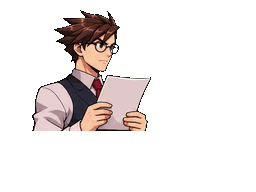
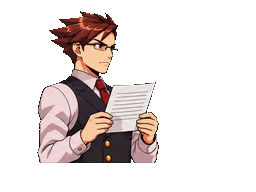
Justo: 12 caras nuevas en pares (cruzado, decidido, triste, confundido, golpe en la mesa, golpeado, aliviado, enojado) y animación nueva de lentes y papel
Claude-Session: https://claude.ai/code/session_01Xb94a44mJyTYV8GKKMfxw2

Changed region(s): [[0.125, 0.0312, 0.625, 0.875]]

diff --git a/js/assets.js b/js/assets.js
@@ -1,6 +1,6 @@
 /* Rutas de las imágenes del juego. Para cambiar un sprite, reemplaza el PNG. */
 const ART={chayo:{annoyed:"assets/personajes/chayo/annoyed.png",annoyedTalk:"assets/personajes/chayo/annoyedTalk.png",base:"assets/personajes/chayo/base.png",face:"assets/personajes/chayo/face.png",happy:"assets/personajes/chayo/happy.png",happyTalk:"assets/personajes/chayo/happyTalk.png",point:"assets/personajes/chayo/point.png",pointTalk:"assets/personajes/chayo/pointTalk.png",smug:"assets/personajes/chayo/smug.png",smugTalk:"assets/personajes/chayo/smugTalk.png",surprise:"assets/personajes/chayo/surprise.png",surpriseTalk:"assets/personajes/chayo/surpriseTalk.png",talk:"assets/personajes/chayo/talk.png",think:"assets/personajes/chayo/think.png",thinkTalk:"assets/personajes/chayo/thinkTalk.png",worried:"assets/personajes/chayo/worried.png",worriedTalk:"assets/personajes/chayo/worriedTalk.png"},
-ines:{angry:"assets/personajes/ines/angry.png",angryTalk:"assets/personajes/ines/angryTalk.png",ap1:"assets/personajes/ines/ap1.png",ap10:"assets/personajes/ines/ap10.png",ap11:"assets/personajes/ines/ap11.png",ap12:"assets/personajes/ines/ap12.png",ap13:"assets/personajes/ines/ap13.png",ap14:"assets/personajes/ines/ap14.png",ap15:"assets/personajes/ines/ap15.png",ap16:"assets/personajes/ines/ap16.png",ap2:"assets/personajes/ines/ap2.png",ap3:"assets/personajes/ines/ap3.png",ap4:"assets/personajes/ines/ap4.png",ap5:"assets/personajes/ines/ap5.png",ap6:"assets/personajes/ines/ap6.png",ap7:"assets/personajes/ines/ap7.png",ap8:"assets/personajes/ines/ap8.png",ap9:"assets/personajes/ines/ap9.png",base:"assets/personajes/ines/base.png",down:"assets/personajes/ines/down.png",downTalk:"assets/personajes/ines/downTalk.png",face:"assets/personajes/ines/face.png",le1:"assets/personajes/ines/le1.png",le10:"assets/personajes/ines/le10.png",le11:"assets/personajes/ines/le11.png",le12:"assets/personajes/ines/le12.png",le13:"assets/personajes/ines/le13.png",le14:"assets/personajes/ines/le14.png",le15:"assets/personajes/ines/le15.png",le16:"assets/personajes/ines/le16.png",le2:"assets/personajes/ines/le2.png",le3:"assets/personajes/ines/le3.png",le4:"assets/personajes/ines/le4.png",le5:"assets/personajes/ines/le5.png",le6:"assets/personajes/ines/le6.png",le7:"assets/personajes/ines/le7.png",le8:"assets/personajes/ines/le8.png",le9:"assets/personajes/ines/le9.png",papel:"assets/personajes/ines/papel.png",papelTalk:"assets/personajes/ines/papelTalk.png",point:"assets/personajes/ines/point.png",pointTalk:"assets/personajes/ines/pointTalk.png",shock:"assets/personajes/ines/shock.png",shockTalk:"assets/personajes/ines/shockTalk.png",smug:"assets/personajes/ines/smug.png",smugTalk:"assets/personajes/ines/smugTalk.png",sweat:"assets/personajes/ines/sweat.png",sweatTalk:"assets/personajes/ines/sweatTalk.png",talk:"assets/personajes/ines/talk.png",think:"assets/personajes/ines/think.png",thinkTalk:"assets/personajes/ines/thinkTalk.png"},
+ines:{angry2:"assets/personajes/ines/angry2.png",angry2Talk:"assets/personajes/ines/angry2Talk.png",ap1:"assets/personajes/ines/ap1.png",ap10:"assets/personajes/ines/ap10.png",ap11:"assets/personajes/ines/ap11.png",ap12:"assets/personajes/ines/ap12.png",ap13:"assets/personajes/ines/ap13.png",ap14:"assets/personajes/ines/ap14.png",ap15:"assets/personajes/ines/ap15.png",ap16:"assets/personajes/ines/ap16.png",ap2:"assets/personajes/ines/ap2.png",ap3:"assets/personajes/ines/ap3.png",ap4:"assets/personajes/ines/ap4.png",ap5:"assets/personajes/ines/ap5.png",ap6:"assets/personajes/ines/ap6.png",ap7:"assets/personajes/ines/ap7.png",ap8:"assets/personajes/ines/ap8.png",ap9:"assets/personajes/ines/ap9.png",base:"assets/personajes/ines/base.png",confused:"assets/personajes/ines/confused.png",confusedTalk:"assets/personajes/ines/confusedTalk.png",cruzado:"assets/personajes/ines/cruzado.png",cruzadoTalk:"assets/personajes/ines/cruzadoTalk.png",face:"assets/personajes/ines/face.png",hit:"assets/personajes/ines/hit.png",hitTalk:"assets/personajes/ines/hitTalk.png",ld1:"assets/personajes/ines/ld1.png",ld2:"assets/personajes/ines/ld2.png",ld3:"assets/personajes/ines/ld3.png",ld4:"assets/personajes/ines/ld4.png",papel:"assets/personajes/ines/papel.png",papelTalk:"assets/personajes/ines/papelTalk.png",papelThink:"assets/personajes/ines/papelThink.png",papelThinkTalk:"assets/personajes/ines/papelThinkTalk.png",point:"assets/personajes/ines/point.png",pointTalk:"assets/personajes/ines/pointTalk.png",relieved:"assets/personajes/ines/relieved.png",relievedTalk:"assets/personajes/ines/relievedTalk.png",sad:"assets/personajes/ines/sad.png",sadTalk:"assets/personajes/ines/sadTalk.png",serious:"assets/personajes/ines/serious.png",seriousTalk:"assets/personajes/ines/seriousTalk.png",shock:"assets/personajes/ines/shock.png",shockTalk:"assets/personajes/ines/shockTalk.png",slam:"assets/personajes/ines/slam.png",slamTalk:"assets/personajes/ines/slamTalk.png",smug:"assets/personajes/ines/smug.png",smugTalk:"assets/personajes/ines/smugTalk.png",sweat:"assets/personajes/ines/sweat.png",sweatTalk:"assets/personajes/ines/sweatTalk.png",talk:"assets/personajes/ines/talk.png",think:"assets/personajes/ines/think.png",thinkTalk:"assets/personajes/ines/thinkTalk.png"},
 
 fiscal:{angry:"assets/personajes/fiscal/angry.png",angryTalk:"assets/personajes/fiscal/angryTalk.png",base:"assets/personajes/fiscal/base.png",cafe:"assets/personajes/fiscal/cafe.png",cafeTalk:"assets/personajes/fiscal/cafeTalk.png",cross:"assets/personajes/fiscal/cross.png",crossTalk:"assets/personajes/fiscal/crossTalk.png",cuff:"assets/personajes/fiscal/cuff.png",cuffTalk:"assets/personajes/fiscal/cuffTalk.png",down:"assets/personajes/fiscal/down.png",downTalk:"assets/personajes/fiscal/downTalk.png",face:"assets/personajes/fiscal/face.png",facepalm:"assets/personajes/fiscal/facepalm.png",facepalmTalk:"assets/personajes/fiscal/facepalmTalk.png",fist:"assets/personajes/fiscal/fist.png",fistTalk:"assets/personajes/fiscal/fistTalk.png",frente_angry:"assets/personajes/fiscal/frente_angry.png",frente_angryTalk:"assets/personajes/fiscal/frente_angryTalk.png",frente_base:"assets/personajes/fiscal/frente_base.png",frente_cross:"assets/personajes/fiscal/frente_cross.png",frente_crossTalk:"assets/personajes/fiscal/frente_crossTalk.png",frente_down:"assets/personajes/fiscal/frente_down.png",frente_downTalk:"assets/personajes/fiscal/frente_downTalk.png",frente_gesture:"assets/personajes/fiscal/frente_gesture.png",frente_gestureTalk:"assets/personajes/fiscal/frente_gestureTalk.png",frente_proud:"assets/personajes/fiscal/frente_proud.png",frente_proudTalk:"assets/personajes/fiscal/frente_proudTalk.png",frente_serious:"assets/personajes/fiscal/frente_serious.png",frente_seriousTalk:"assets/personajes/fiscal/frente_seriousTalk.png",frente_shock:"assets/personajes/fiscal/frente_shock.png",frente_shockTalk:"assets/personajes/fiscal/frente_shockTalk.png",frente_smile:"assets/personajes/fiscal/frente_smile.png",frente_smileTalk:"assets/personajes/fiscal/frente_smileTalk.png",frente_smug:"assets/personajes/fiscal/frente_smug.png",frente_smugTalk:"assets/personajes/fiscal/frente_smugTalk.png",frente_talk:"assets/personajes/fiscal/frente_talk.png",frente_think:"assets/personajes/fiscal/frente_think.png",frente_think2:"assets/personajes/fiscal/frente_think2.png",frente_think2Talk:"assets/personajes/fiscal/frente_think2Talk.png",frente_thinkTalk:"assets/personajes/fiscal/frente_thinkTalk.png",gesture:"assets/personajes/fiscal/gesture.png",gestureTalk:"assets/personajes/fiscal/gestureTalk.png",point:"assets/personajes/fiscal/point.png",pointTalk:"assets/personajes/fiscal/pointTalk.png",proud:"assets/personajes/fiscal/proud.png",proud2:"assets/personajes/fiscal/proud2.png",proud2Talk:"assets/personajes/fiscal/proud2Talk.png",proudTalk:"assets/personajes/fiscal/proudTalk.png",serious:"assets/personajes/fiscal/serious.png",seriousTalk:"assets/personajes/fiscal/seriousTalk.png",shock:"assets/personajes/fiscal/shock.png",shockTalk:"assets/personajes/fiscal/shockTalk.png",smile:"assets/personajes/fiscal/smile.png",smileTalk:"assets/personajes/fiscal/smileTalk.png",smug:"assets/personajes/fiscal/smug.png",smug2:"assets/personajes/fiscal/smug2.png",smug2Talk:"assets/personajes/fiscal/smug2Talk.png",smugTalk:"assets/personajes/fiscal/smugTalk.png",stop:"assets/personajes/fiscal/stop.png",stopTalk:"assets/personajes/fiscal/stopTalk.png",sweat:"assets/personajes/fiscal/sweat.png",sweatTalk:"assets/personajes/fiscal/sweatTalk.png",talk:"assets/personajes/fiscal/talk.png",think:"assets/personajes/fiscal/think.png",think2:"assets/personajes/fiscal/think2.png",think2Talk:"assets/personajes/fiscal/think2Talk.png",thinkTalk:"assets/personajes/fiscal/thinkTalk.png"},
 

diff --git a/js/engine.js b/js/engine.js
@@ -416,7 +416,7 @@ function presentItem(id){
                {who:"jueza",mood:"serious",text:"...¿Y eso qué tiene que ver, abogado?"},
                {who:"fiscal",mood:"smug",pose:"cafe",text:"Hmph. Novato. *sorbo*"},
                {who:"jueza",mood:"disappoint",damage:true,text:"Se lo descontaré a la defensa."},
-   {who:"ines",mood:"shock",anim:"hit",text:"(¡Aaagh! ¡Me equivoqué!)"}],
+   {who:"ines",mood:"hit",anim:"hit",text:"(¡Aaagh! ¡Me equivoqué!)"}],
               ()=>{ if(G.health<=0) return gameOver(); pc=checkpoint; run(); });
     return;
   }
@@ -583,7 +583,7 @@ function drawBG(pos){
 
 /* Qué celda de la hoja usa cada emoción: [callado, hablando, parpadeo] */
 const AMAP={
-  ines:{normal:["base","talk"],serious:["base","talk"],smug:["smug","smugTalk"],smile:["smug","smugTalk"],sweat:["sweat","sweatTalk"],shock:["shock","shockTalk"],think:["think","thinkTalk"],angry:["angry","angryTalk"],down:["down","downTalk"],"pose:point":["point","pointTalk"],"pose:papel":["papel","papelTalk"],"pose:papelThink":["le16","le16"]},
+  ines:{normal:["base","talk"],smug:["smug","smugTalk"],smile:["relieved","relievedTalk"],relieved:["relieved","relievedTalk"],sweat:["sweat","sweatTalk"],shock:["shock","shockTalk"],hit:["hit","hitTalk"],think:["cruzado","cruzadoTalk"],think2:["think","thinkTalk"],confused:["confused","confusedTalk"],serious:["serious","seriousTalk"],angry:["angry2","angry2Talk"],down:["sad","sadTalk"],sad:["sad","sadTalk"],"pose:point":["point","pointTalk"],"pose:papel":["papel","papelTalk"],"pose:papelThink":["papelThink","papelThinkTalk"],"pose:slam":["slam","slamTalk"],"pose:cruzado":["cruzado","cruzadoTalk"]},
   fiscal:{normal:["base","talk"],serious:["base","talk"],smug:["smug","smugTalk"],smile:["smile","smileTalk"],shock:["shock","shockTalk"],sweat:["sweat","sweatTalk"],angry:["angry","angryTalk"],disdain:["cross","crossTalk"],think:["think","thinkTalk"],proud:["proud2","proud2Talk"],laugh:["proud","proudTalk"],down:["down","downTalk"],facepalm:["facepalm","facepalmTalk"],"pose:point":["point","pointTalk"],"pose:cafe":["cafe","cafeTalk"],"pose:gesto":["gesture","gestureTalk"],"pose:cruzado":["cross","crossTalk"],"pose:alto":["stop","stopTalk"],"pose:puno":["fist","fistTalk"]},
   testigo:{normal:["base","talk"],smile:["proud","proudTalk"],smug:["smug","smugTalk"],sweat:["sweat","sweatTalk"],shock:["shock","shockTalk"],angry:["angry","angryTalk"],break:["break","breakTalk"],cry:["cry","cryTalk"]},
   jueza:{normal:["base","talk"],serious:["serious","seriousTalk"],shock:["shock","shockTalk"],think:["think","thinkTalk"],smile:["smile","smileTalk"],confused:["confused","confusedTalk"],disappoint:["disappoint","disappointTalk"],gavel:["gavel","gavelTalk"]},
@@ -642,8 +642,8 @@ function renderSprite(){
    Justo: levanta el brazo al apuntar y lo baja al terminar; se pone los lentes y toma el papel. */
 const TRANS={ ines:{
   point:{in:["ap2","ap3","ap4","ap5","ap6","ap7","ap8"], out:["ap12","ap13","ap14","ap15","ap16"], ms:45},
-  papel:{in:["le2","le3","le4","le5","le6","le7","le8","le9","le10","le11","le12"], out:["le12","le11","le10","le9","le3","le2"], ms:110},
-  papelThink:{in:["le2","le3","le4","le5","le6","le7","le8","le9","le10","le11","le12"], out:["le12","le11","le10","le9","le3","le2"], ms:110} }};
+  papel:{in:["ld1","ld2","ld3","ld4"], out:["ld4","ld3","ld2","ld1"], ms:170},
+  papelThink:{in:["ld1","ld2","ld3","ld4"], out:["ld4","ld3","ld2","ld1"], ms:170} }};
 const RAW={}; function rawImg(who,k){ const key=who+"/"+k; if(!RAW[key]){ RAW[key]=new Image(); RAW[key].src=ART[who][k]; } return RAW[key]; }
 Object.keys(TRANS).forEach(w=>Object.values(TRANS[w]).forEach(t=>t.in.concat(t.out).forEach(k=>rawImg(w,k))));
 let seqTimer=null, seqOn=false, seqUntil=0;

diff --git a/prueba-final.html b/prueba-final.html
@@ -5,7 +5,7 @@
 <meta name="viewport" content="width=device-width, initial-scale=1">
 <title>ACTA CERO — Prueba del final</title>
 <link href="https://fonts.googleapis.com/css2?family=Bebas+Neue&family=Pixelify+Sans:wght@400;700&display=swap" rel="stylesheet">
-<link rel="stylesheet" href="css/style.css?v=61">
+<link rel="stylesheet" href="css/style.css?v=62">
 </head>
 <body>
 <div id="ds">
@@ -49,15 +49,15 @@
     <div class="hint">Activa el sonido · toca la pantalla de abajo para avanzar</div>
   </div>
 </div>
-<script src="js/casos.js?v=61"></script>
-<script src="casos/caso1.js?v=61"></script>
-<script src="casos/caso2.js?v=61"></script>
-<script src="js/audio.js?v=61"></script>
-<script src="js/sprites.js?v=61"></script>
-<script src="js/assets.js?v=61"></script>
-<script src="js/engine.js?v=61"></script>
-<script src="js/investigacion.js?v=61"></script>
-<script src="js/musica.js?v=61"></script>
+<script src="js/casos.js?v=62"></script>
+<script src="casos/caso1.js?v=62"></script>
+<script src="casos/caso2.js?v=62"></script>
+<script src="js/audio.js?v=62"></script>
+<script src="js/sprites.js?v=62"></script>
+<script src="js/assets.js?v=62"></script>
+<script src="js/engine.js?v=62"></script>
+<script src="js/investigacion.js?v=62"></script>
+<script src="js/musica.js?v=62"></script>
 <script>
 /* Versión de prueba: salta directo al veredicto y la escena final del Caso 1. No toca la partida guardada. */
 saveGame=function(){ return true; }; clearSave=function(){};

diff --git a/index.html b/index.html
@@ -5,7 +5,7 @@
 <meta name="viewport" content="width=device-width, initial-scale=1">
 <title>ACTA CERO</title>
 <link href="https://fonts.googleapis.com/css2?family=Bebas+Neue&family=Pixelify+Sans:wght@400;700&display=swap" rel="stylesheet">
-<link rel="stylesheet" href="css/style.css?v=61">
+<link rel="stylesheet" href="css/style.css?v=62">
 </head>
 <body>
 <div id="ds">
@@ -48,14 +48,14 @@
     <div class="hint">Activa el sonido · toca la pantalla de abajo para avanzar</div>
   </div>
 </div>
-<script src="js/casos.js?v=61"></script>
-<script src="casos/caso1.js?v=61"></script>
-<script src="casos/caso2.js?v=61"></script>
-<script src="js/audio.js?v=61"></script>
-<script src="js/sprites.js?v=61"></script>
-<script src="js/assets.js?v=61"></script>
-<script src="js/engine.js?v=61"></script>
-<script src="js/investigacion.js?v=61"></script>
-<script src="js/musica.js?v=61"></script>
+<script src="js/casos.js?v=62"></script>
+<script src="casos/caso1.js?v=62"></script>
+<script src="casos/caso2.js?v=62"></script>
+<script src="js/audio.js?v=62"></script>
+<script src="js/sprites.js?v=62"></script>
+<script src="js/assets.js?v=62"></script>
+<script src="js/engine.js?v=62"></script>
+<script src="js/investigacion.js?v=62"></script>
+<script src="js/musica.js?v=62"></script>
 </body>
 </html>

diff --git a/casos/caso1.js b/casos/caso1.js
@@ -362,7 +362,7 @@ const SCRIPT = [
   {who:"ines",pos:L,mood:"think",text:"(Bien.[p] ¿Dónde estará esa mocosa?)"},
   // ===== Chayo =====
   {who:"chayo",pos:L,mood:"excited",sfx:"hit",text:"[s]¡BUENOS DÍAS!"},
-  {who:"ines",pos:L,mood:"shock",anim:"hit",text:"¡¿Waaa?!"},
+  {who:"ines",pos:L,mood:"hit",anim:"hit",text:"¡¿Waaa?!"},
   {who:"chayo",pos:L,pose:"foto",text:"[f]*Clic*[p] Sales muy bien, Justicio."},
   {who:"ines",pos:L,mood:"down",text:"(Es Justo...[p] Justo Valdivia.)"},
   {who:"ines",pos:L,mood:"think",text:"(Rosario Velado. «Chayo». Practicante. Estudió Psicología, después Periodismo. Ahora, Derecho.)"},

diff --git a/herramientas/penna4.py b/herramientas/penna4.py
@@ -51,7 +51,7 @@ HH=int(os.environ.get('HH','110')); SC=TGT/HH
 def anchor(k0):
     c,off=cells[k0]; bb=c.getbbox(); top=bb[1]; hb=c.crop((0,top,c.width,top+HH)).getbbox()
     return dict(tpl=g8(c)[top:top+HH,hb[0]:hb[2]],hx0=hb[0],top=top,bb=bb,w=c.width)
-PROF=anchor(0); FRON=None
+PROF=anchor(int(os.environ.get('REFK','1'))-1); FRON=None
 def match(c,T):
     g=g8(c); best=(-1,1,0,0)
     for f in np.arange(.8,1.25,.02):
@@ -73,6 +73,7 @@ def head_anchor(c,front):
     rows=np.where(a.sum(1)>8)[0]; t=rows[0]
     band=a[t:t+40]; xs=np.where(band.any(0))[0]
     if front: return (xs.min()+xs.max())/2, t
+    if os.environ.get('FACER')=='1': return xs.min(), t                 # mira a la derecha: la nuca queda a la izquierda
     return xs.max(), t
 def place(k,T):
     """Mismo tamaño para todo el grupo; cada cuadro se alinea por la parte de arriba y de atrás de la cabeza."""
@@ -80,13 +81,18 @@ def place(k,T):
     if key not in REF:
         _,f0,mx0,my0=match(c,T); hx,hy=head_anchor(c,front); REF[key]=(f0,mx0-hx,my0-hy)
     f,dx,dy=REF[key]; hx,hy=head_anchor(c,front); mx,my=hx+dx,hy+dy; sc=1.0
+    if os.environ.get('ANCHOR')=='cell':                               # la hoja ya trae el encuadre parejo: misma posición de celda
+        if 'cell' not in REF: REF['cell']=(mx-(-off),my)
+        cx0,cy0=REF['cell']; mx,my=cx0+(-off),cy0
     s=SC/f; sm=c.resize((round(c.width*s),round(c.height*s)),Image.LANCZOS)
     hw=T['tpl'].shape[1]*SC                                      # ancho de la cabeza en pantalla
     out=Image.new('RGBA',(CW,192)); out.paste(sm,(round(AX-hw/2-mx*s),round(AY-my*s)),sm)
     a=np.array(out); m=a[...,3]>140; a[...,:3]&=0xF8; a[...,3]=np.where(m,255,0); a[~m]=0
     return Image.fromarray(a),round(float(sc),2)
 F={}; log=[]
-for k in range(GX*GY):
+_ord=list(range(GX*GY))
+if os.environ.get('REFK'): r=int(os.environ['REFK'])-1; _ord=[r]+[k for k in _ord if k!=r]
+for k in _ord:
     F[k+1],sc=place(k, PROF); log.append((k+1,sc))
 def shift_to(a,b):
     """Corre el cuadro b unos píxeles para que su cara calce con la de a."""
@@ -133,6 +139,9 @@ TABLAS={'v3':{'base':(1,2),'smug':(3,2),'proud':(5,None),'smug2':(6,2),'cross':(
    'point':(39,37,'f'),'smug':(40,34),'sad':(41,42,'f'),'facepalm':(43,None),'cry':(44,None),'happy':(45,46,'f'),'grin':(48,None)},
  'chayoA':{'base':(1,2,'f'),'happy':(3,4,'f'),'surprise':(5,6,'f'),'think':(7,8,'f')},
  'chayoB':{'worried':(1,2,'f'),'smug':(3,4,'f'),'annoyed':(5,6,'f'),'point':(7,8,'f')},
+ 'justoB':{'cruzado':(1,2,'f'),'serious':(3,4,'f'),'sad':(5,6,'f'),'confused':(7,8,'f')},
+ 'justoC':{'slam':(1,2,'f'),'hit':(3,4,'f'),'relieved':(5,6,'f'),'angry2':(7,8,'f')},
+ 'justoD':{'ld1':(1,None),'ld2':(2,None),'ld3':(3,None),'ld4':(4,None),'papel':(5,6,'f'),'papelThink':(7,8,'f')},
  'v5':{'base':(1,2),'smug':(3,4),'cross':(5,6),'point':(7,8),'angry':(9,10),'shock':(11,12),'sweat':(13,14),'cafe':(15,16)}}
 P=TABLAS[os.environ.get('TABLA','v3')]
 FR={}

diff --git a/CLAUDE.md b/CLAUDE.md
@@ -84,11 +84,14 @@ Proceso (scripts en `herramientas/`, escritos para un entorno puntual: adaptar r
 1. Quitar el croma. 2. Cuadro «hablando» = cuadro de boca cerrada + solo la boca del otro (así el cuerpo no tiembla).
 3. Igualar el tamaño y la posición de la cabeza entre emociones. 4. Reducir a 256×192 con color de 15 bits.
 Los PNG de `assets/` ya están procesados: se dibujan tal cual.
-Justo: poses de `arte-original/justo-perfil-b.png` (perfil, **siempre mira a la derecha**), más dos hojas de animación:
-`justo-apunta.png` (cuadros `ap1`…`ap16`: levanta el brazo, apunta y lo baja) y `justo-lentes.png` (`le1`…`le16`: se pone
-los lentes y toma un papel). `TRANS` en engine.js pasa esos cuadros al entrar o salir de `pose:"point"` y `pose:"papel"`
-(`papelThink` = pensando con el papel). Las tres hojas se alinean juntas con `herramientas/justo.py` (args: carpeta 50 142 -20). Los cuadros vienen corridos
-a la izquierda para que el brazo al apuntar salga entero; el CSS (`#sprite[data-who=ines]`) compensa la posición.
+Justo (**siempre mira a la derecha**): base/smug/sweat/shock/think/point de `arte-original/justo-perfil-b.png` (+ `justo-apunta.png`,
+cuadros `ap1`…`ap16` para levantar el brazo; `herramientas/justo.py`). Hojas nuevas 4×2 en pares exactos:
+`justo-v2-b.png` (cruzado, serious, sad, confused), `justo-v2-c.png` (slam, hit, relieved, angry2), `justo-v2-d.png` (ld1–ld4 =
+animación de ponerse los lentes y tomar el papel; papel y papelThink en pares). Se procesan con
+`ANCHOR=cell REFK=<1|5> FACER=1 SHEET=… GX=4 GY=2 TABLA=justoB|C|D HH=110 HEADY=… python3 herramientas/penna4.py CARPETA <tam> 0 -45`
+(tamaño/posición igualados al `base.png` actual: cabeza arriba en y=13, ancho ~58). Emociones: ver `AMAP.ines` (think = brazos
+cruzados, confused, serious, sad, relieved, hit = golpeado por la objeción); poses `point`, `papel`, `papelThink`, `slam`.
+Los cuadros vienen corridos a la izquierda para que el brazo al apuntar salga entero; el CSS (`#sprite[data-who=ines]`) compensa.
 Penna: de perfil. Hoja principal `arte-original/penna-v5.jpg` (4×4, el formato del prompt unificado): normal, smug, cruzado,
 point, angry, shock, sweat y `cafe` (con taza): `SHEET=arte-original/penna-v5.jpg GX=4 GY=4 TABLA=v5 HH=110 HEADY=20
 python3 herramientas/penna4.py CARPETA 41 0 18`. Las caras que no trae (think, down, facepalm, proud, laugh, gesto, alto, puno)
